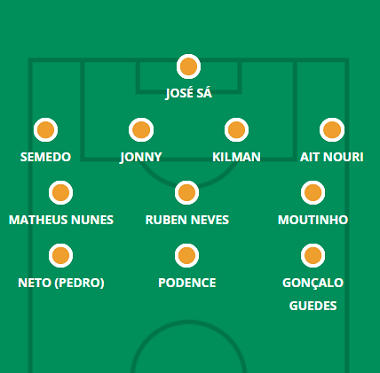
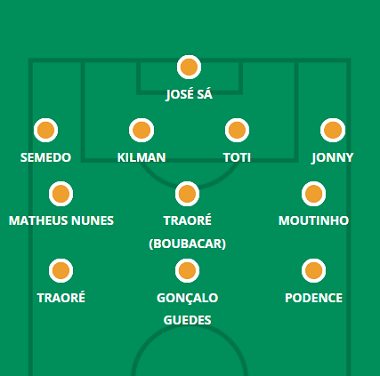
liverpool e wolves

diff --git a/liverpool.html b/liverpool.html
@@ -68,7 +68,7 @@
             <hgroup>
                 <h1> Provável Escalação</h1>
                 <h2 class="direita"> por FabioVascão </h2>
-                <h3 class="direita"> Atualizado em 30/Setembro/2022 </h3>
+                <h3 class="direita"> Atualizado em 07/Outubro/2022 </h3>
             </hgroup>
     
             <h2 class="time"> <img src="_fotos/_logos/logoliverpool.png" />Liverpool</h2>
@@ -77,9 +77,9 @@
                     <img src="_fotos/_dinamicas/liverpool.png" />
                 </figure>
             </aside>
-                <div class="escalacao"><h2 class="titulo">Ultimas Notícias</h2> <h4><p>Andrew Robertson (lesão no joelho), Curtis Jones (lesão na perna), Naby Keita (lesão múscular) e Alex Oxlade-Chamberlain (lesão na coxa) estão todos fora do jogo de Brighton, e enquanto Ibrahima Konate, Calvin Ramsay e Caoimhin Kelleher estão agora livres de lesões, a preparação para o jogo continua a ser um problema; apenas Konate desse trio tem chance de ficar no banco neste fim de semana. Diogo Jota e Darwin Nunez foram dispensados na quinta-feira após seus compromissos internacionais, enquanto Jurgen Klopp nem viu Luis Diaz até sexta-feira, após sua partida de quarta-feira pela Colômbia, então há uma chance de que os três primeiros do Liverpool neste fim de semana levem em conta minutos jogado durante o intervalo internacional, principalmente com a agenda lotada pela frente. A chegada tardia de Diaz e as duas partidas de Nunez na última semana são fatores possíveis, principalmente porque Roberto Firmino não chutou uma bola para o Brasil e Mohamed Salah foi autorizado a sair cedo do campo do Egito. O influente Thiago Alcântara teve quinze dias de folga e Fabinho foi pouco usado pelo Brasil, então provavelmente será uma luta direta entre Jordan Henderson e Harvey Elliott pela terceira vaga no meio-campo central em Anfield. Os quatro zagueiros podem muito bem escolher a si mesmos, principalmente porque Joel Matip se destacou no último jogo oficial do Liverpool contra o Ajax, há duas semanas.</p></h4><br>
-                    <h4><strong>Jogadores fora da próxima partida:</strong> Davies, Jones (Curtis), Keita, Oxlade-Chamberlain, Ramsay e Robertson</h4><br><br>
-                    <h4><strong>Jogadores dúvidas:</strong> Kelleher e Konaté </h4>
+                <div class="escalacao"><h2 class="titulo">Ultimas Notícias</h2> <h4><p>Arthur Melo (lesão múscular), Naby Keita (lesão múscular) e Alex Oxlade-Chamberlain (lesão na coxa) estão todos fora do jogo do Arsenal, enquanto Andrew Robertson (lesão no joelho) está apenas na fase de treino de 'corrida' a partir de sexta-feira, então também parece improvável estar envolvido. Curtis Jones (lesão na perna) está mais à frente em sua reabilitação, no entanto, com Jurgen Klopp relatando que o meio-campista foi "o mais próximo" dos jogadores lesionados do Liverpool de retornar e que ele treinou totalmente pela primeira vez em um mês na quinta-feira. Ibrahima Konate, Calvin Ramsay e Caoimhin Kelleher também estão todos livres de lesões, embora o condicionamento físico continue sendo um problema, pois nenhum deles jogou um minuto de futebol competitivo em 2022/23. Klopp usou um 4-4-2/4-2-3-1 contra o Rangers na terça-feira, dizendo na entrevista coletiva de sexta-feira que queria que o Liverpool fosse "imprevisível novamente". Uma repetição dessa configuração tática não pode ser descartada após o sucesso no meio da semana, mas o Arsenal representará uma ameaça muito mais ofensiva do que a equipe escocesa e Klopp enfatizou que escolheria a formação que fosse "melhor para o próximo adversário ou o melhor para nós no momento". Fabinho pode voltar ao time ao lado de Jordan Henderson e Thiago Alcantara, então, com as limitações defensivas de Harvey Elliott provavelmente expostas contra os Gunners. O em boa forma Roberto Firmino parece um provável titular para retornar após um descanso no meio da semana, com Luis Diaz e Mohamed Salah os claros favoritos para flanqueá-lo. Diogo Jota ou Darwin Nunez vão ficar mais atentos se Klopp ficar com um 4-4-2/4-2-3-1, embora Elliott e Fabio Carvalho também sejam opções como número 10 se o treinador continuar com essa forma. Os quatro defensores provavelmente escolhem a si mesmos no momento, a menos que Klopp decida colocar Konate no XI inicial sem qualquer preparação.</p></h4><br>
+                    <h4><strong>Jogadores fora da próxima partida:</strong> Davies, Keita, Oxlade-Chamberlain e Arthur</h4><br><br>
+                    <h4><strong>Jogadores dúvidas:</strong> Jones e Robertson</h4>
                 </div> 
         </header>
         </article>

diff --git a/wolves.html b/wolves.html
@@ -77,9 +77,9 @@
                     <img src="_fotos/_dinamicas/wolves.png" />
                 </figure>
             </aside>
-                <div class="escalacao"><h2 class="titulo">Ultimas Notícias</h2> <h4><p>Com Hwang Hee-chan retornando do serviço internacional com a Coreia do Sul lesionado e se juntando a Sasa Kalajdzic (lesão no joelho) e Raul Jimenez (lesão na virilha) à margem, Bruno Lage está perdendo outra opção de linha de frente antes da viagem ao West Ham. O Wolves pode, é claro, agora chamar Diego Costa, que "treinou muito bem" durante o intervalo internacional de acordo com seu novo chefe, mas o fato de ele não jogar competitivamente desde 2021 significa que um começo ainda não é garantido. Lage disse mesmo no presser desta sexta-feira que Costa "passou muito tempo sem jogar, muito tempo sem treinar, e o ritmo da Premier League está a outro nível", pelo que poderá ser Gonçalo Guedes ou Daniel Podence novamente a liderar a linha de Leste de Londres. Quem substitui o suspenso Nathan Collins é a outra decisão principal do técnico dos Wolves nesta semana, com Yerson Mosquera e Toti como substitutos naturais, ainda que inexperientes. Os comentários de Lage sobre as pré-temporadas interrompidas da dupla e os recentes problemas de condicionamento físico não são um bom presságio, no entanto, e o fato de ele ter mencionado Jonny como uma alternativa no zagueiro pode ter sido revelador. Até Ruben Neves é uma possibilidade na retaguarda, depois de o médio português ter terminado a 8ª jornada nessa posição após a expulsão de Collins. Boubacar Traore é uma opção no meio-campo se Neves for remanejado, enquanto o homônimo Adama Traore está em forma novamente e estará no elenco neste fim de semana.</p></h4><br>
-                    <h4><strong>Jogadores fora da próxima partida:</strong> Hwang Hee-Chan, Raúl Jiménez, Kalajdzic e Chiquinho</h4><br><br>
-                    <h4><strong>Jogadores dúvidas:</strong> Diego Costa</h4>
+                <div class="escalacao"><h2 class="titulo">Ultimas Notícias</h2> <h4><p>Pedro Neto ficará de fora até depois da Copa do Mundo depois de passar por uma cirurgia no ligamento do tornozelo que sofreu no último fim de semana, então se junta a Sasa Kalajdzic (lesão no joelho), Chiquinho (lesão no joelho) e Raul Jimenez (lesão na virilha) na lista de lesões. Ruben Neves e Nathan Collins também estão suspensos, mas Hwang Hee-chan está pelo menos de volta aos treinos, então pode entrar no elenco em Stamford Bridge. Há sempre um ar de incerteza sobre qual formação um novo técnico/interino irá optar e é difícil supor que o chefe interino Steve Davis optará pela mesma configuração de back-four que ele vem empregando no nível sub-18 neste estação. Com Collins e Neves de fora (este último tinha sido titular no zagueiro nos últimos dois jogos), um ou ambos de Toti ou Yerson Mosquera podem dar uma olhada no Chelsea dependendo da formação, com Jonny também uma possibilidade em três - defesa do homem. Os dois Traores, Boubacar e Adama, terão esperança de subir do banco com a lista de lesões e suspensões crescendo, mas resta saber se Diego Costa está apto para outra coisa além de substituto depois de tanto tempo sem futebol competitivo.</p></h4><br>
+                    <h4><strong>Jogadores fora da próxima partida:</strong> Raúl Jiménez, Kalajdzic, Neto (Pedro) e Chiquinho</h4><br><br>
+                    <h4><strong>Jogadores dúvidas:</strong> Hwang Hee-Chan, Collins e Ruben Neves</h4>
                 </div> 
         </header>
         </article>
